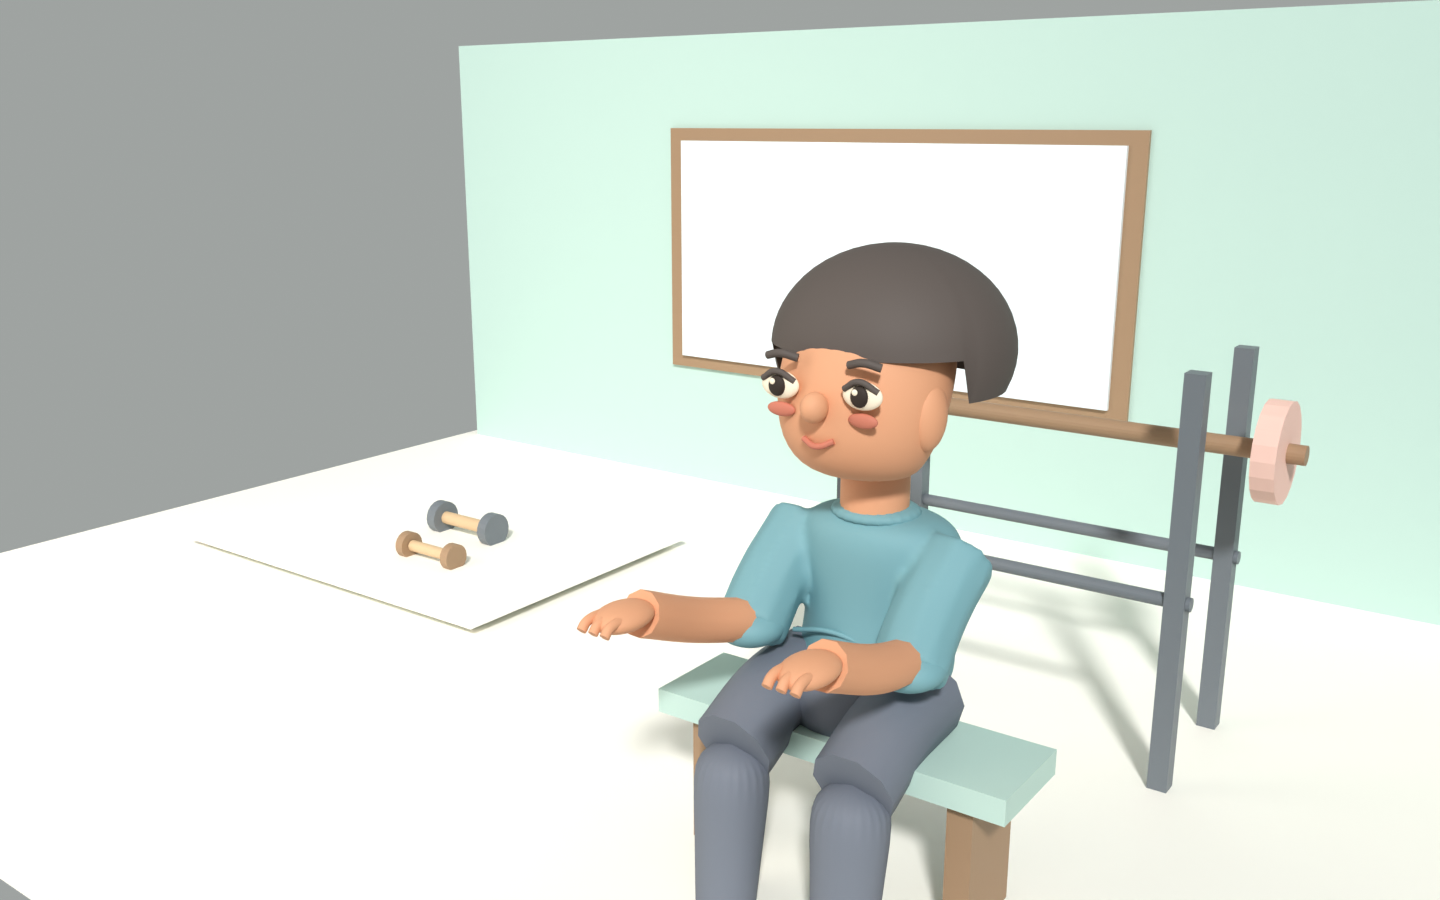
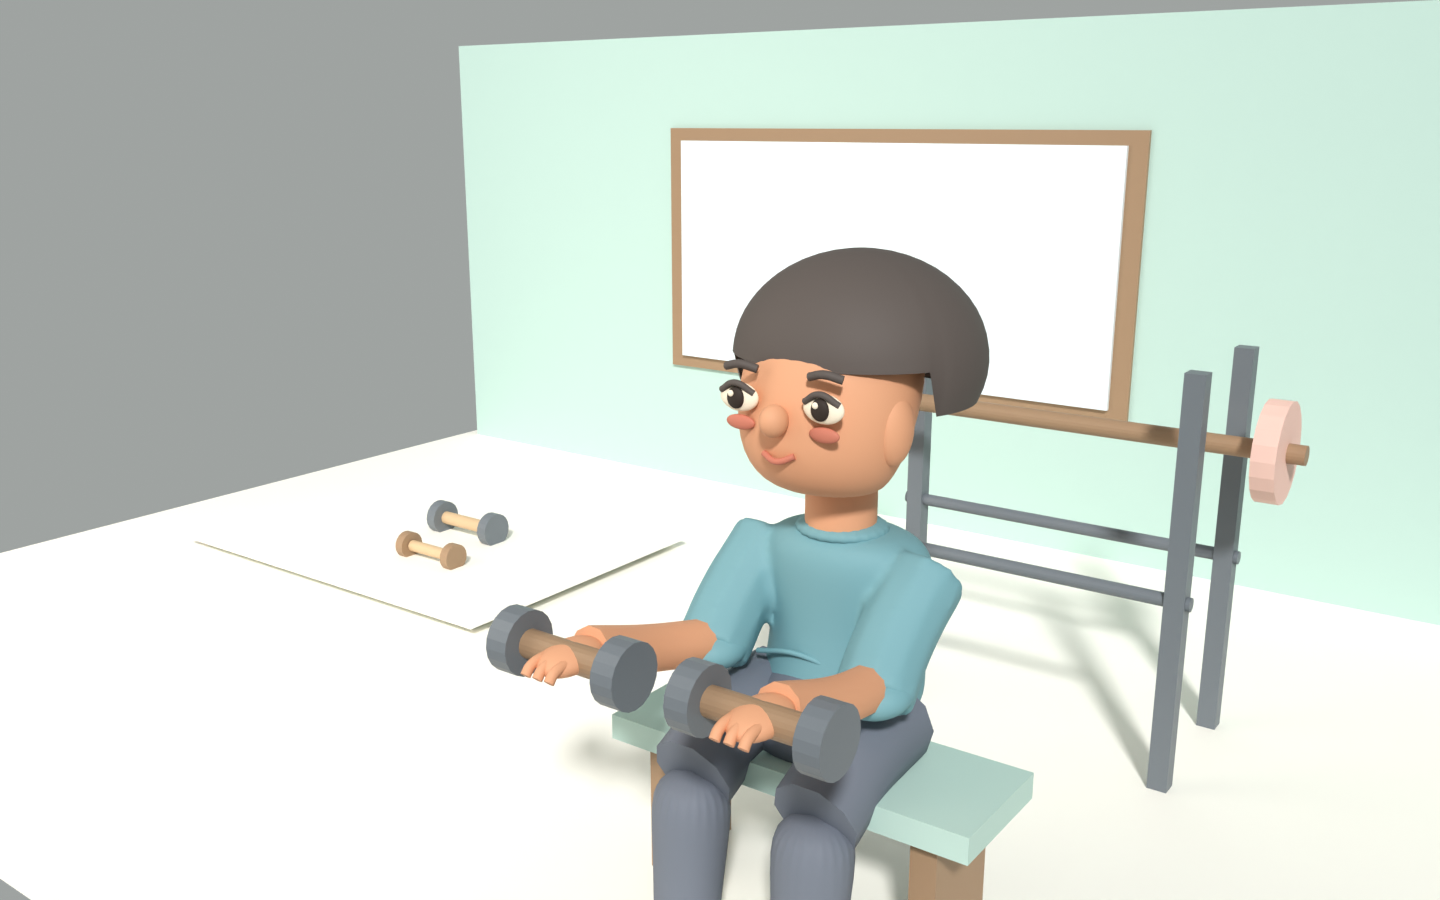
Stand the player on both feet and hold dumbbells at the gym.
The old aim twisted the seated legs around the bone, so the centers lined up while the knees faced backward. Flexion now stays on the body's left-right axis, the soles sit on the floor at both door layouts, and the gym pose is a seated dumbbell hold clear of the rack.

Changed region(s): [[0.3125, 0.2489, 0.75, 1.0]]

diff --git a/tools/art/build_places.py b/tools/art/build_places.py
@@ -283,24 +283,49 @@ def _aim(names, pivot, marker, target):
     _spin(names, pivot, axis_n, angle)
 
 
+def _flex(names, pivot, marker, target_dir, lateral):
+    lat = lateral.normalized()
+    current = marker - pivot
+    cur = current - lat * current.dot(lat)
+    tgt = Vector(target_dir)
+    tgt = tgt - lat * tgt.dot(lat)
+    if cur.length < 1e-5 or tgt.length < 1e-5:
+        return
+    cur.normalize()
+    tgt.normalize()
+    angle = math.atan2(cur.cross(tgt).dot(lat), cur.dot(tgt))
+    _spin(names, pivot, lat, angle)
+
+
+def _bone_end(name, origin):
+    obj = bpy.data.objects[name]
+    corners = [obj.matrix_world @ Vector(corner) for corner in obj.bound_box]
+    center = sum(corners, Vector()) / len(corners)
+    direction = center - origin
+    if direction.length < 1e-5:
+        return center
+    direction = direction.normalized()
+    return max(corners, key=lambda point: (point - origin).dot(direction))
+
+
 def _stand_player():
+    hip = _pcenter(["F01_Trousers_seat"])
+    foot = _pcenter(["F01_near_canvas_shoe", "F01_far_canvas_shoe"])
+    forward = Vector((foot.x - hip.x, foot.y - hip.y, 0.0))
+    if forward.length < 1e-4:
+        forward = Vector((0.0, 1.0, 0.0))
+    lateral = Vector((0.0, 0.0, 1.0)).cross(forward.normalized())
+    down = Vector((0.0, 0.0, -1.0))
     for full, lower, thigh, shoe in (
         (NEAR_LEG, NEAR_LOWER, "F01_near_trouser_thigh", "F01_near_canvas_shoe"),
         (FAR_LEG, FAR_LOWER, "F01_far_trouser_thigh", "F01_far_canvas_shoe"),
     ):
-        seat = _pcenter(["F01_Trousers_seat"])
+        hip = _pcenter(["F01_Trousers_seat"])
         knee = _pcenter([thigh])
-        _aim(full, seat, knee, seat + Vector((0.0, 0.02, -1.0)))
-        knee = _pcenter([thigh])
+        _flex(full, hip, knee, down, lateral)
+        joint = _bone_end(thigh, hip)
         ankle = _pcenter([shoe])
-        _aim(lower, knee, ankle, Vector((knee.x, knee.y, knee.z - 0.8)))
-        ankle = _pcenter([shoe])
-        knee = _pcenter([thigh])
-        if ankle.z > knee.z - 0.05:
-            flip = (ankle - knee).cross(Vector((0.0, 0.0, -1.0)))
-            if flip.length < 1e-4:
-                flip = Vector((1.0, 0.0, 0.0))
-            _spin(lower, knee, flip.normalized(), math.pi)
+        _flex(lower, joint, ankle, down, lateral)
 
 
 def seat_player(target, yaw):
@@ -388,6 +413,34 @@ def _style_male():
 def _finish_player():
     if os.environ.get("PLACE_GENDER", "f") == "m":
         _style_male()
+
+
+def _hold_dumbbells():
+    hip = _pcenter(["F01_Trousers_seat"])
+    foot = _pcenter(["F01_near_canvas_shoe", "F01_far_canvas_shoe"])
+    forward = Vector((foot.x - hip.x, foot.y - hip.y, 0.0))
+    if forward.length < 1e-4:
+        forward = Vector((0.0, -1.0, 0.0))
+    forward.normalize()
+    lateral = Vector((0.0, 0.0, 1.0)).cross(forward)
+    if lateral.length < 1e-4:
+        lateral = Vector((1.0, 0.0, 0.0))
+    lateral.normalize()
+    for arm, cuff, hand, side in (
+        (NEAR_ARM, "F01_near_cuff", "F01_near_hand", 1.0),
+        (FAR_ARM, "F01_far_cuff", "F01_far_hand", -1.0),
+    ):
+        shoulder = _pcenter([cuff])
+        palm = _pcenter([hand])
+        # Chest-height curl: hand stays on its own side and lifts in front of the shoulder.
+        target = shoulder + forward * 0.22 + lateral * side * 0.08 + Vector((0.0, 0.0, 0.06))
+        _flex(arm, shoulder, palm, target - shoulder, lateral)
+        palm = _pcenter([hand])
+        prefix = "curl_%s" % hand
+        bar = palm
+        add("cyl", prefix + "_bar", (bar.x, bar.y, bar.z), (0.08, 0.08, 0.36), WOOD_D, (0, math.radians(90), 0))
+        add("cyl", prefix + "_a", (bar.x - 0.18, bar.y, bar.z), (0.18, 0.18, 0.07), INK, (0, math.radians(90), 0))
+        add("cyl", prefix + "_b", (bar.x + 0.18, bar.y, bar.z), (0.18, 0.18, 0.07), INK, (0, math.radians(90), 0))
 
 
 def _read_book():
@@ -530,11 +583,11 @@ def gym():
     add("cyl", "bar", (1.6, 0.15, 1.2), (0.07, 0.07, 1.9), WOOD_D, (0, math.radians(90), 0))
     add("cyl", "plate_l", (0.75, 0.15, 1.2), (0.36, 0.36, 0.08), CLAY, (0, math.radians(90), 0))
     add("cyl", "plate_r", (2.45, 0.15, 1.2), (0.36, 0.36, 0.08), CLAY, (0, math.radians(90), 0))
-    add("cube", "bench_pad", (1.6, -1.25, 0.48), (1.2, 0.36, 0.08), SAGE)
-    add("cube", "bench_leg", (1.15, -1.25, 0.22), (0.08, 0.28, 0.42), WOOD_D)
-    add("cube", "bench_leg_b", (2.05, -1.25, 0.22), (0.08, 0.28, 0.42), WOOD_D)
-    # The door "stand" folds this seated mesh backward. Sit beside the rack instead.
-    seat_player((1.6, -1.15, 0.58), math.pi / 2.0)
+    add("cube", "bench_pad", (1.6, -1.45, 0.48), (1.2, 0.42, 0.08), SAGE)
+    add("cube", "bench_leg", (1.15, -1.45, 0.22), (0.08, 0.32, 0.42), WOOD_D)
+    add("cube", "bench_leg_b", (2.05, -1.45, 0.22), (0.08, 0.32, 0.42), WOOD_D)
+    seat_player((1.6, -1.35, 0.58), math.pi / 2.0)
+    _hold_dumbbells()
     _finish_player()
 
 

diff --git a/tools/art/export_room_layers.py b/tools/art/export_room_layers.py
@@ -362,25 +362,66 @@ def _reach(target):
         _aim(arm, shoulder, palm, target + Vector((side, 0.0, 0.0)))
 
 
+def _flex(names, pivot, marker, target_dir, lateral):
+    """Bend on the body's left-right axis only.
+
+    A free aim twists the seated meshes around the bone, so the centers stack
+    while the knees and soles face backward. Flexion keeps the knee forward
+    and the sole flat.
+    """
+    lat = lateral.normalized()
+    current = marker - pivot
+    cur = current - lat * current.dot(lat)
+    tgt = Vector(target_dir)
+    tgt = tgt - lat * tgt.dot(lat)
+    if cur.length < 1e-5 or tgt.length < 1e-5:
+        return
+    cur.normalize()
+    tgt.normalize()
+    angle = math.atan2(cur.cross(tgt).dot(lat), cur.dot(tgt))
+    _spin(names, pivot, lat, angle)
+
+
+def _bone_end(name, origin):
+    obj = bpy.data.objects[name]
+    corners = [obj.matrix_world @ Vector(corner) for corner in obj.bound_box]
+    center = sum(corners, Vector()) / len(corners)
+    direction = center - origin
+    if direction.length < 1e-5:
+        return center
+    direction = direction.normalized()
+    return max(corners, key=lambda point: (point - origin).dot(direction))
+
+
 def _stand_legs():
+    hip = _part_center(["F01_Trousers_seat"])
+    foot = _part_center(["F01_near_canvas_shoe", "F01_far_canvas_shoe"])
+    forward = Vector((foot.x - hip.x, foot.y - hip.y, 0.0))
+    if forward.length < 1e-4:
+        forward = Vector((0.0, 1.0, 0.0))
+    lateral = Vector((0.0, 0.0, 1.0)).cross(forward.normalized())
+    down = Vector((0.0, 0.0, -1.0))
     for full, lower, thigh, shoe in (
         (NEAR_LEG, NEAR_LOWER, "F01_near_trouser_thigh", "F01_near_canvas_shoe"),
         (FAR_LEG, FAR_LOWER, "F01_far_trouser_thigh", "F01_far_canvas_shoe"),
     ):
-        seat = _part_center(["F01_Trousers_seat"])
+        hip = _part_center(["F01_Trousers_seat"])
         knee = _part_center([thigh])
-        _aim(full, seat, knee, seat + Vector((0.0, 0.02, -1.0)))
-        knee = _part_center([thigh])
+        _flex(full, hip, knee, down, lateral)
+        joint = _bone_end(thigh, hip)
         ankle = _part_center([shoe])
-        below = Vector((knee.x, knee.y, knee.z - 0.8))
-        _aim(lower, knee, ankle, below)
-        ankle = _part_center([shoe])
-        knee = _part_center([thigh])
-        if ankle.z > knee.z - 0.05:
-            flip = (ankle - knee).cross(Vector((0.0, 0.0, -1.0)))
-            if flip.length < 1e-4:
-                flip = Vector((1.0, 0.0, 0.0))
-            _spin(lower, knee, flip.normalized(), math.pi)
+        _flex(lower, joint, ankle, down, lateral)
+
+
+def _sole_bottom():
+    zs = []
+    for name in ("F01_near_shoe_sole", "F01_far_shoe_sole", "F01_near_canvas_shoe", "F01_far_canvas_shoe"):
+        obj = bpy.data.objects.get(name)
+        if obj is None:
+            continue
+        for corner in obj.bound_box:
+            zs.append((obj.matrix_world @ Vector(corner)).z)
+    return min(zs) if zs else 0.0
 
 
 def _pose_report(label):
@@ -437,7 +478,8 @@ def apply_pose(kind, extra):
         _stand_legs()
         _rest_arms()
         foot = _part_center(["F01_near_canvas_shoe", "F01_far_canvas_shoe"])
-        _move_all(Vector((3.20, 1.45, 0.08)) - foot)
+        sole = _sole_bottom()
+        _move_all(Vector((3.20 - foot.x, 1.45 - foot.y, 0.04 - sole)))
     if extra.length > 0.001:
         _move_all(extra)
         if kind == "read":
